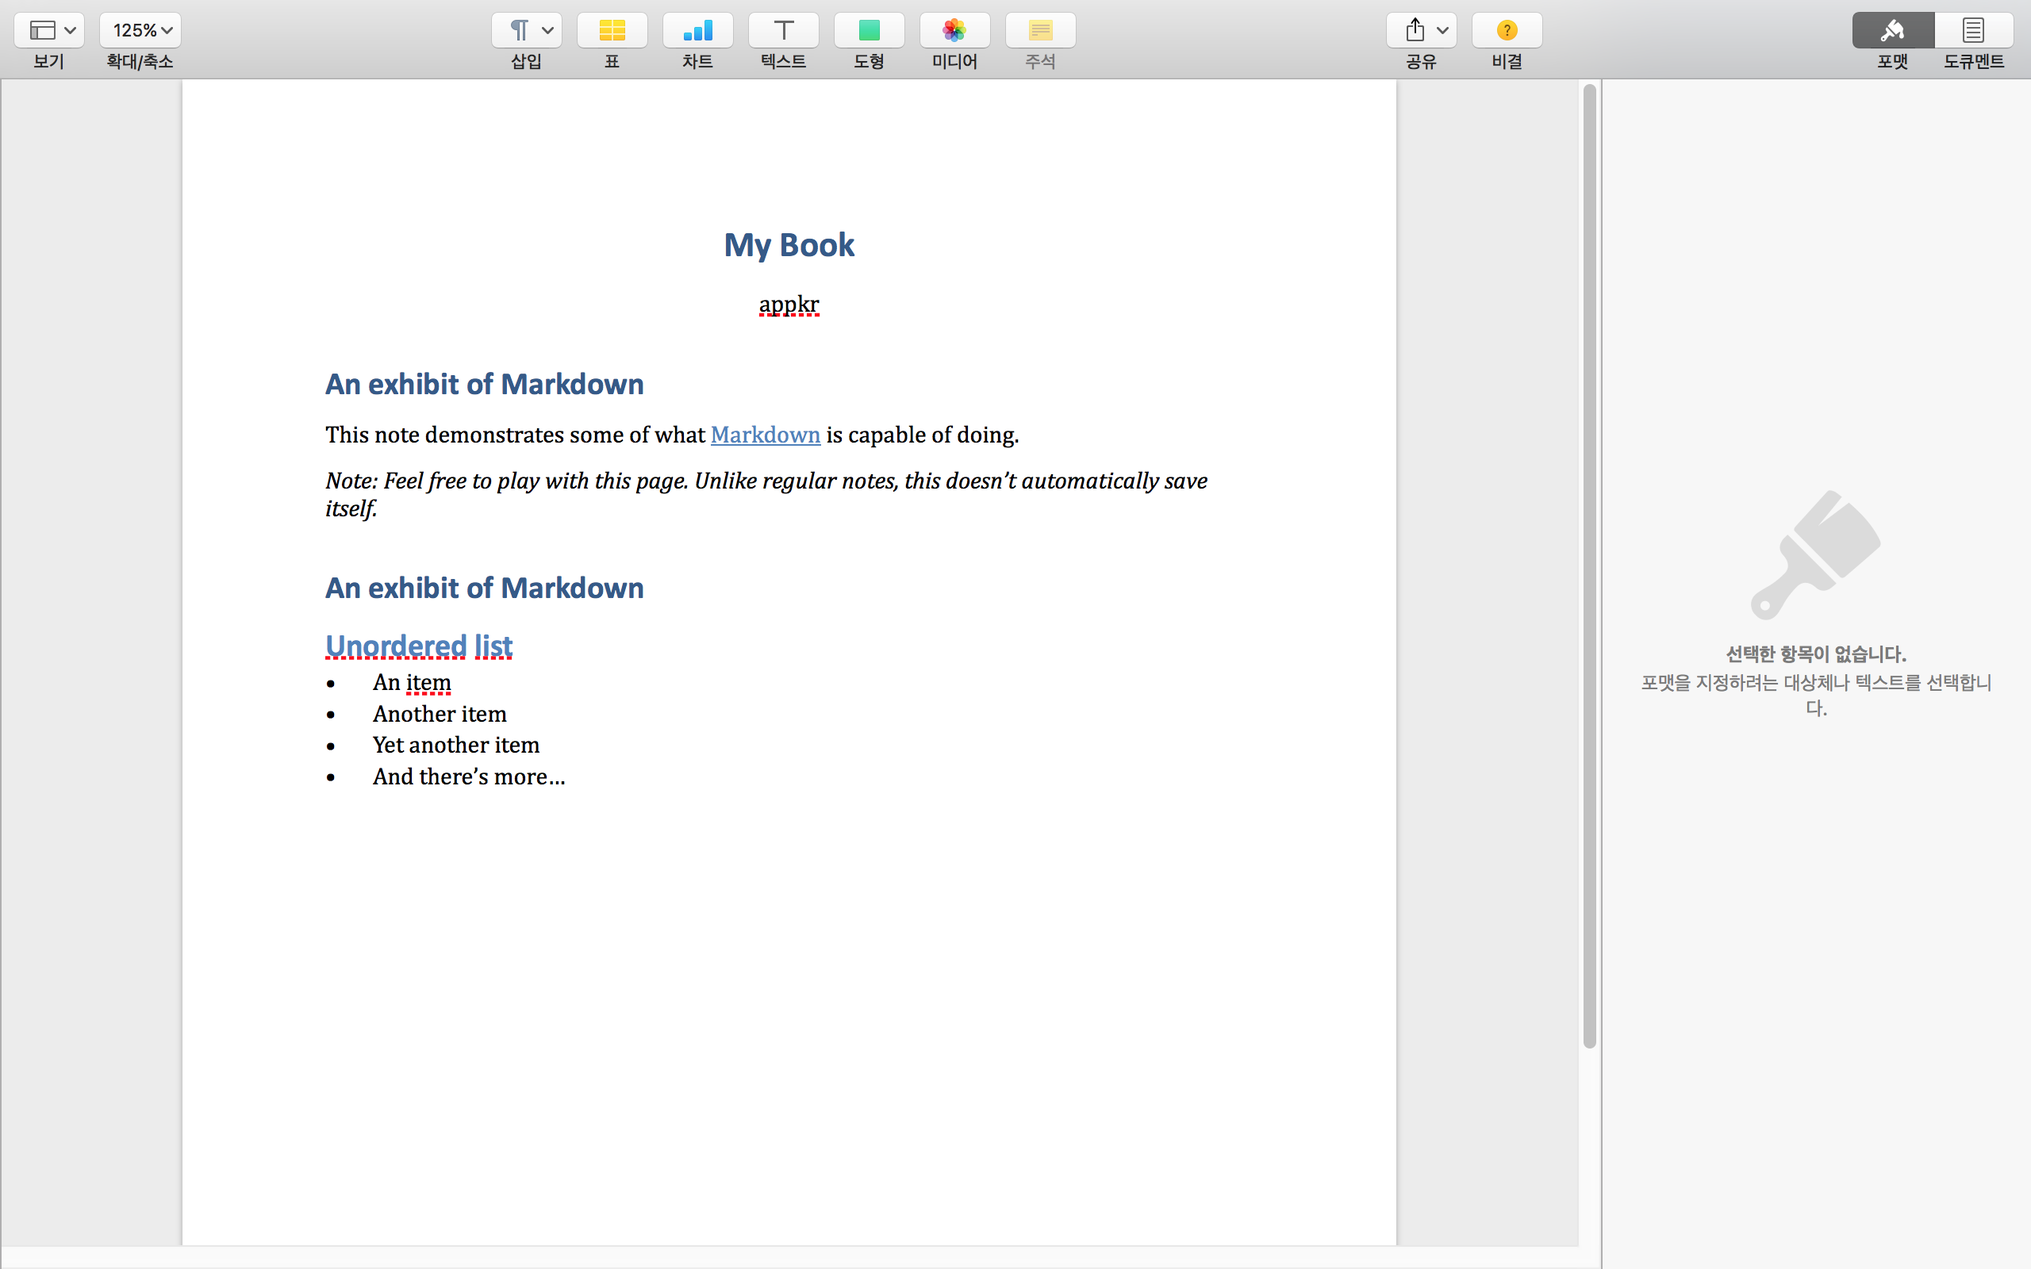
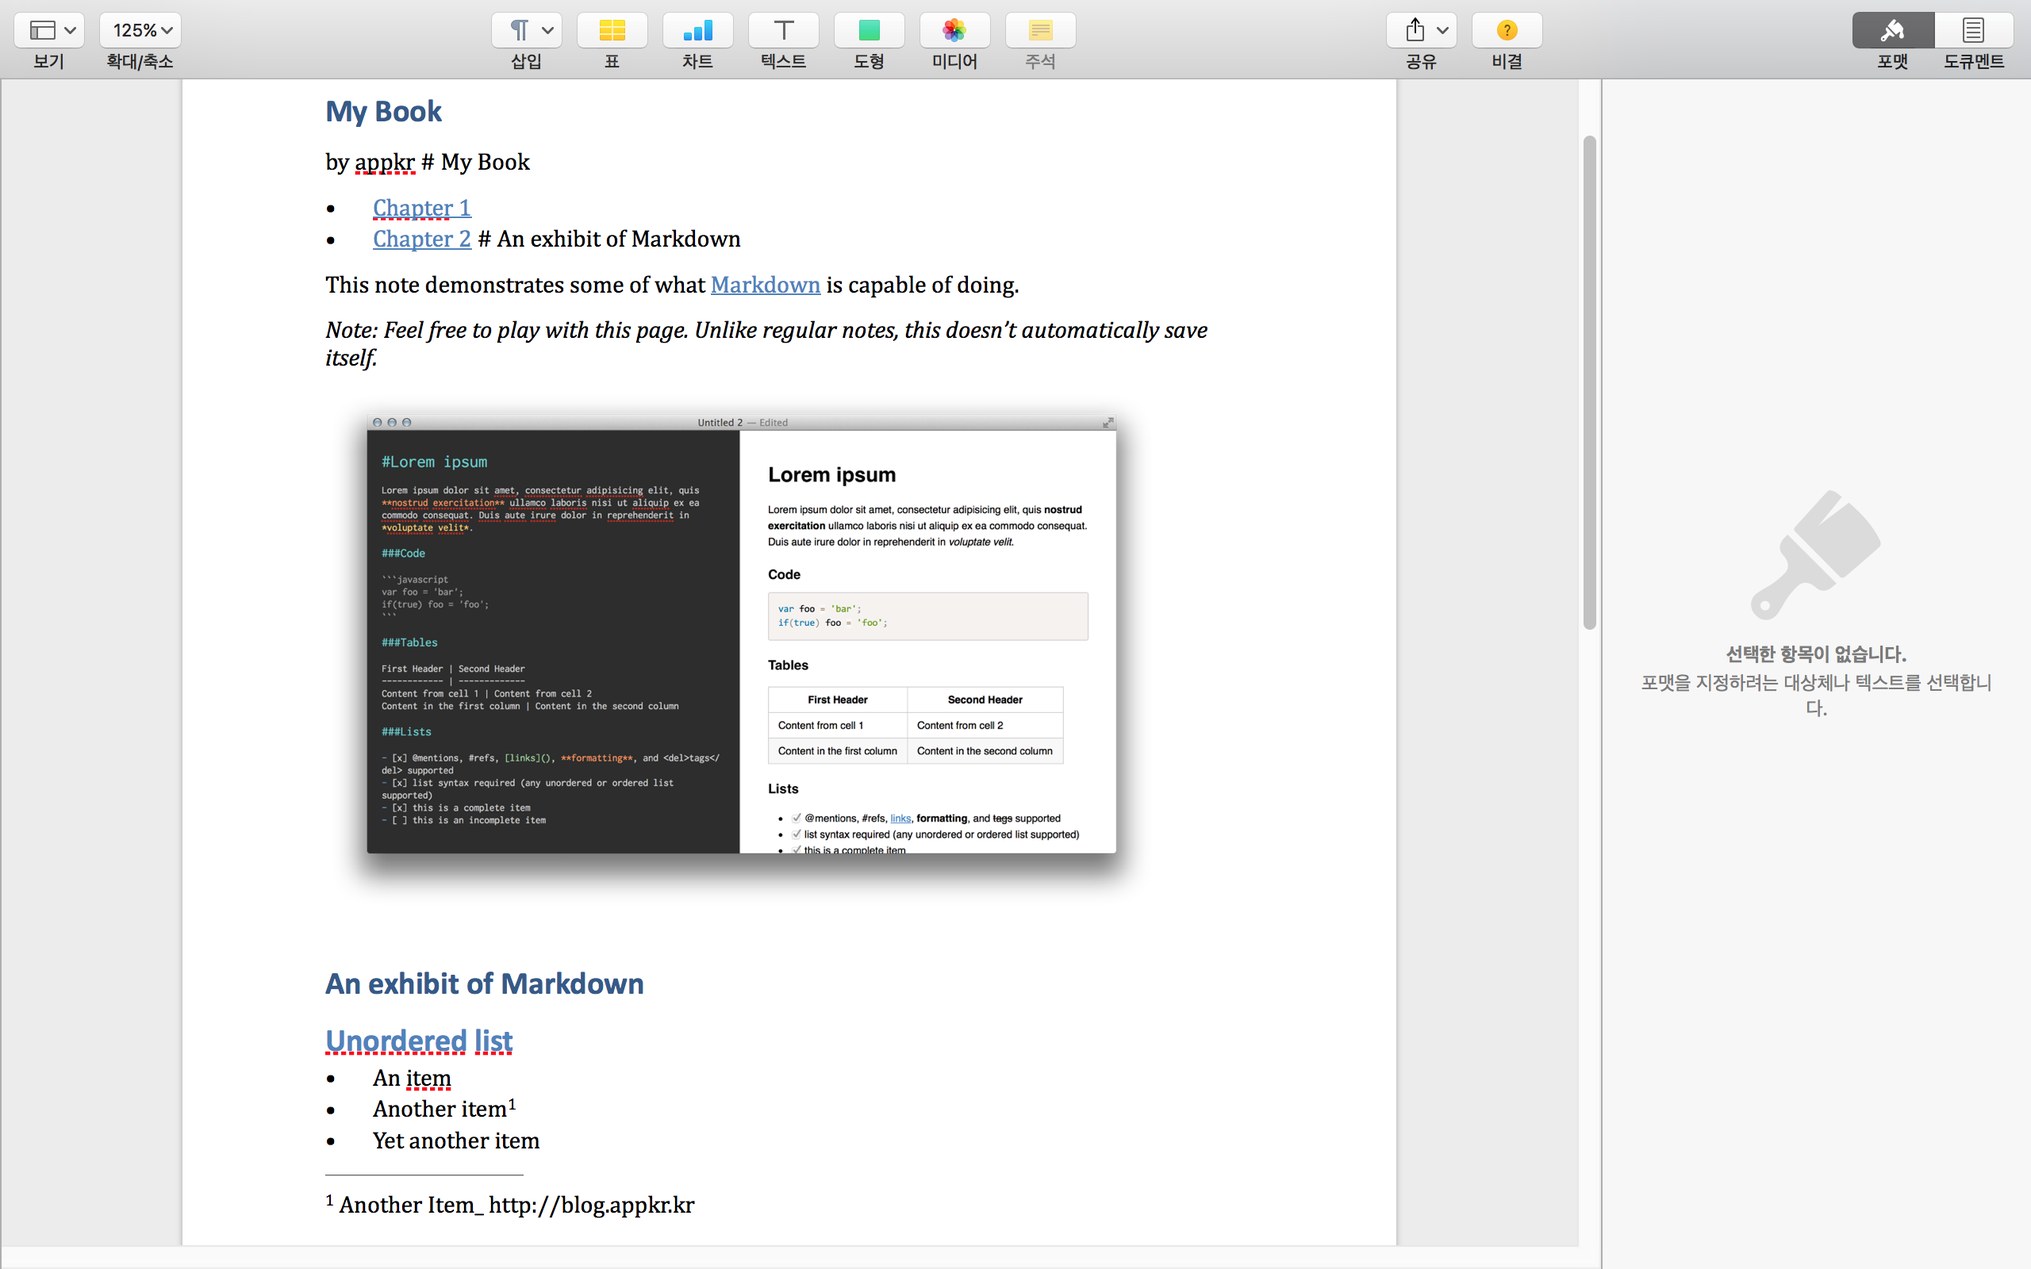
rewrite content and added an example project

diff --git a/_posts/2016-03-03-super-fast-debug-deploy.md b/_posts/2016-03-03-super-fast-debug-deploy.md
@@ -1,0 +1,125 @@
+---
+layout: post
+title: '엄청나게 빠른 버그 감지, 디버그, 코드 배포' 
+date: 2016-03-03 00:00:00 +0900
+categories:
+- work-n-play
+tags:
+- 개발자
+- 라라벨
+- laravel
+---
+
+어제 있었던 일이다. 저녁에 있을 모임에 나가기 위해 하던 일을 슬슬 정리하려던 차였다. 그런데, 슬랙으로 날아온 버그 메시지. 버그를 감지하고 바로 고친후 프로덕션에 배포했는데, 이 모든 과정이 딱 10분 걸렸다. 어떻게 가능했을까?
+
+이 포스트는 
+
+- 라라벨[^1] 프레임워크의 우수성을 알린다.
+- 가난한 개발자가 자신의 서비스를 지키는 방법과 몇가지 개발 도구를 소개한다.
+
+라는 목적을 가진다. (이 블로그의 포스트들의 방문자가 갑자기 많아졌다. 그래서 웃고 운다.)
+
+이 포스트의 대상이 되는 프로젝트는 내가 쓴 [라라벨 5 온라인 강좌](https://github.com/appkr/l5essential)임을 미리 밝힌다. 해당 강좌를 통해 개발한 최종 결과물은 현재 아마존웹서비스(AWS)에서 올려 [라이브데모](http://l5.appkr.kr/)라며 서비스하는데, 이 포스트는 라이브데모의 방문자 중 한분이 겪은 문제에 대한 해결 이력이다. 그런데 불편한을 겪었던 그 분은 나한테 문제점을 알려주지는 않았고 '그냥 안되네~'라며 페이지를 떠나신 것 같다. 내 메일 주소를 찾아 가면서 문제점을 기술(description)하면서 고쳐달라고 말하는 친절을 베풀지는 않았지만, 해당 버그를 만들어 주었으니 나한테는 고마운 분이다.
+
+이 포스트의 내용과는 조금은 다른 관점인데.. 서비스에 문제가 생겼을 때 사용자가 별 노력 없이도 문제점을 개발자에게 알릴 수 있는 사용자인터페이스(UI)나 장치를 만드는 것도, 서비스의 품질을 높일 수 있는 좋은 방법이다. 이런 옵트인(opt-in) 방식의 리포팅은 팝업 형태로 표시되어 사용자의 동의를 받아 전송하는 것이 일반적이다. 
+
+가능한 모든 경우의 수를 따져서 개발자는 프로그래밍하고 테스트를 하려고 하지만, 세상에 '완벽'이란 단어는 없다. 구현이 조금 부족하고 테스트가 덜 됐을 수 있지만, 버그를 리포팅하는 장치를 프로그램에 심어서 배포하고, 리포트된 버그를 분석하고 코드를 고쳐서 빠르게 안정화하며, 초기 사용자의 반응을 관찰하는 것이 더 낫다는 것이 필자의 생각이다. 완벽주의 개발자들로 포진된 스타트업들이 오버 엔지니어링을 하다가 실기(失期)하는 사례를 여러번 봤다.
+
+<!--more-->
+
+<div class="spacer">• • •</div>
+
+## Bug Detection
+
+아래는 어제 오후 5시 16분에 발생한 예외를 라라벨의 전역 예외처리기가 캐치하고, 스택트레이스(stack trace)를 슬랙(Slack)으로 보낸 것이다. `Call to undifined method Lararacasts\Flash\FlashNotifier::error()`. 없는 메서드를 호출했단다. 얼마나 자세(informative)한가?
+
+[![슬랙으로 전달된 스택트레이스](/images/2016-03-03-img-01.png)](/images/2016-03-03-img-01.png)
+
+아래는 라라벨 프로젝트의 전역 예외처리기에 정의된 버그 리포트 부분이다. 프로덕션 환경일 때만, `\App\Reporters\ErrorReport::send()` 를 이용해서 `Exception $e`를 리포팅한다. 
+
+```php
+<?php // app/Exceptions/Handler.php
+
+// ...
+
+class Handler extends ExceptionHandler
+{
+    public function report(Exception $e)
+    {
+        if ($this->shouldReport($e) and app()->environment('production')) {
+            app(\App\Reporters\ErrorReport::class, [$e])->send();
+        }
+
+        return parent::report($e);
+    }
+
+    public function render($request, Exception $e)
+    {
+        // Custom exception rendering logic ...
+
+        return parent::render($request, $e);
+    }
+}
+```
+
+## Debugging
+
+어려운 버그였다면 10분은 거짓말이었을텐데, 다행히 쉬운 버그였다. 코드에디터 열어서 `errors()`에서 `error()`로 오타 수정하는 정도였으니까..
+
+[![errors() 메서드는 없다.](/images/2016-03-03-img-02.png)](/images/2016-03-03-img-02.png)
+
+코드 수정과 테스트가 끝나면 그 다음은 완전 기계적인 프로세스다. 수정된 코드를 버전관리시스템에 반영하고, 깃허브에 올리는 일이다.
+
+```bash
+$ git add .
+$ git commit -m 'fix bug of BadMethodCall @PasswordController'
+$ git push
+```
+
+## Code Deploy
+
+로컬컴퓨터에서 아래 콘솔 명령 한줄이면 배포 끝! 내 프로젝트가 의존하는 패키지를 내려받아 설치하는 것까지 포함해서, 프로덕션 서버에 코드 배포 과정은 길어도 2분 정도다. 
+
+```bash
+$ envoy run release
+```
+
+[![envoy 코드 배포](/images/2016-03-03-img-03.png)](/images/2016-03-03-img-03.png)
+
+여기까지 10분!!! 하는 김에, 그간에 독자분들에 지적한 변경 필요 내용들도 반영했다. 
+
+## Conclusion
+
+### Bug Detection
+
+많은 프로그래머들이 PHP 프로그래밍언어의 단점으로 '예측 가능하지 않다'는 점과 '신뢰성이 떨어진다'는 점을 든다. 실수로 코드를 잘못짰을 때, 그 프로그램이 실행을 멈추고 뭔가 엄청난 에러메시지를 뿜어 내는 것이 보통의 개발자들이 기대하는 바이다. 
+
+예를 들어 `$id = $_GET['id']; if ($id == 0) {...}` 처럼 초기화되지 않을 수도 있는 변수를 비즈니스 로직에서 사용할 수 있는데, PHP 엔진은 `Undefined index:id`라는 경고 메시지를 '조용히' 로그에 기록한 후, 그냥 다음 코드를 실행한다. 이건 앞서 말한 개발자의 기대와 다르다. 이 코드는 개발자의 실수였거나, 나쁜 코딩 습관의 산물이거나, 아니면 괜찮은 코드를 짜는 방법을 몰라서 생긴 결과일 수 있다. 개발자 본인이 테스트할 때 문제가 없어 보일 수 있지만, 다른 사용자가 이용할 때는 완전히 다른 결과를 낼 개연성이 있는 잘못된 코드이다.
+
+이가 없으면 잇몸이라 했던가? PHP 프로그래밍 언어가 가진 문제점을 라라벨 프레임워크 커버해 준다. 어떻게???
+
+라라벨 프레임워크는 이런 경우에 무조건 예외를 던진다. 그리고, (특별한 예외처리 로직을 구현하지 않았더라도) 전역 예외처리기에서 캐치한다. 이 전역 예외처리기는 `render()` 메서드로 사용자에게 안내 메시지를 표시하거나, `report()` 메서드로 로그 기록이나 외부로 메시지를 보내는 등, 캐치한 예외의 타입에 따라 적절한 방식으로 예외를 소비한다. 입문자든 고수든 대부분의 PHP 개발자가 프레임워크를 사용할 때 얻는 이점 중 하나이다. 입문자는 이런 문제를 회피하기 위해서, 고수는 시간을 절약하기 위해서..
+
+잡설이 길었는데 라라벨의 '예측가능성'과 '신뢰성'에 대한 철학, 그리고 그 철학의 구현체는 훌륭하다. 내가 이 프레임워크에 머물러 있는 이유다.
+
+### Debugging
+
+디버깅에서 중요한 것은 첫째, 자신만의 디버깅 프로세스와, 둘째, 좋은 도구이다. 서드파티 콤포넌트의 메서드 이름을 어떻게 기억하겠는가? 다행히 [phpStorm](https://www.jetbrains.com/phpstorm/)[^2]과 같은 도구는 객체나 메서드 이름 위에 커서를 놓고 <kbd>Cmd</kbd> + 클릭으로 메서드로 이동할 수 있다. 해서, 없는 메서드라는 것을 쉽게 확인할 수 있다.
+
+### Code Deploy
+
+엔보이(envoy)[^3]와 깃허브(Github)를 이용해서 코드 배포를 자동화하는 방법은 아래 링크에 있다.
+
+- [엔보이를 이용한 코드 배포 자동화](http://www.slideshare.net/ssuser7887b3/envoy-56730937)
+- [엔보이 예제 스크립트](https://github.com/appkr/envoy)
+- [엔보이-라라벨 5.2 한글 매뉴얼](http://laravel.kr/docs/5.2/envoy)
+
+나는 깃허브라는 서비스를 개발과 프로덕션의 사이를 잇는 허브(hub)로 사용한다. 깃허브에 개발코드를 올리고, 프로덕션에서 `$ git clone`을 하니까 말이다.
+
+---
+
+[^1]: 라라벨_ PHP 프로그래밍언어로 개발된 웹 프레임워크이다.
+
+[^2]: phpStorm_ PHP 프로그래밍을 돕는 통합개발환경(IDE). 이 녀석을 코드편집기라고 부르면, 개발사인 JetBrains에서 육두문자를 날리며 욕할지도 모른다^^. phpStorm은 유료 소프트웨어 인데, 난 운 좋게 (오픈소스기여자에게만 부여되는) 라이센스를 얻어 무료로 사용한다. 이렇게라도 홍보해 드리는 것이 감사를 표시하는 최소한의 방법이라 생각한다.
+
+[^3]: 엔보이_ 라라벨이 제공하는 SSH 작업 실행 도구이다. 프레임워크나 언어에 무관하게 사용할 수 있는 독립적인 애플리케이션이다.

diff --git a/_posts/2016-02-23-pandoc-gitbook-전자출판.md b/_posts/2016-02-23-pandoc-gitbook-전자출판.md
@@ -8,13 +8,13 @@ tags:
 - 개발자
 ---
 
-[Gitbook](https://github.com/GitbookIO/gitbook) 은 이미 알고 있었지만, [Pandoc](http://pandoc.org/) 은 오늘 알게 되었다. 요거 요거 물건이다. Gitbook 과 Pandoc 을 이용해서 전자책을 만드는 방법을 정리해 놓는다.
+Gitbook 은 이미 알고 있었지만, Pandoc 은 오늘 알게 되었다. 요거 요거 물건이다. Gitbook 과 Pandoc 을 이용해서 전자책을 만드는 방법을 정리해 놓는다.
 
--   Gitbook
+-   [Gitbook](https://github.com/GitbookIO/gitbook)
 
     GitBook is a command line tool (and Node.js library) for building beautiful books using GitHub/Git and Markdown
     
--   Pandoc
+-   [Pandoc](http://pandoc.org/)
 
     If you need to convert files from one markup format into another, pandoc is your swiss-army knife.
 
@@ -42,16 +42,25 @@ $ brew install pandoc
 $ pandoc --version # pandoc 1.16.0.2
 ```
 
+<div class="spacer">• • •</div>
+
+필요한 도구가 모두 준비되었으니, 이제 새로운 전자출판 프로젝트를 만들고 책을 집필하자.
+
 ## Create Project
 
+책 본문은 `_draft` 디렉터리에 담는다.
+
 ```bash
-$ mkdir my-book && cd my-book
+# -p 옵션을 주면 만드려는 디렉터리의 부모 디렉터리가 없을 때 만든다.
+$ mkdir -p my-book/_draft && cd my-book
 ```
 
-Markdown 으로 책 본문을 쓰자.
+## Write Contents
+
+Markdown 문법으로 책 본문을 쓰자. 실험 집필에서는 `_draft/chapter1.md`, `_draft/chapter2.md` 2개의 Markdown 파일을 만들었다. 책에 쓰이는 이미지 파일들은 `_draft/images` 에 넣었다.
 
 ```markdown
-<!--chapter1.md-->
+<!--_draft/chapter1.md-->
 
 # An exhibit of Markdown
 
@@ -59,23 +68,27 @@ This note demonstrates some of what [Markdown][1] is capable of doing.
 
 *Note: Feel free to play with this page. Unlike regular notes, this doesn't automatically save itself.*
 
+![](images/markdown_editor.png)
+
 [1]: http://daringfireball.net/projects/markdown/
 ```
 
 ```markdown
-<!--chapter2.md-->
+<!--_draft/chapter2.md-->
 
 # An exhibit of Markdown
 
 ## Unordered list
 
 - An item
-- Another item
+- Another item[^1]
 - Yet another item
 - And there's more...
+
+[^1]: Another Item_ http://blog.appkr.kr 
 ```
 
-`README.md` 와 `SUMMARY.md` 는 Gitbook Mandatory 이므로 꼭 만들어 주어야 한다.
+`README.md` 와 `SUMMARY.md` 2개의 파일은 Gitbook Mandatory 이므로 꼭 만들어 주어야 한다. (프로젝트 루트에 만든다.)
 
 ```markdown
 <!--README.md-->
@@ -85,37 +98,75 @@ This note demonstrates some of what [Markdown][1] is capable of doing.
 by appkr
 ```
 
-## Build Script
+```markdown
+<!--SUMMARY.md-->
 
-`_build` 디렉토리에 빌드 결과물을 저장하였다.
+# Table of Contents
+
+- [Chapter 1](_draft/chapter1.md)
+- [Chapter 2](_draft/chapter2.md)
+```
+
+## Gitbook Serve
+
+속도가 빠르지는 않지만, Gitbook 을 이용하면 집필 중에 Markdown 컴파일 결과를 미리 확인할 수 있다.
 
 ```bash
-# build.sh
-
-#!/usr/bin/env bash
-
-[ ! -d _build ] && mkdir _build
-
-# Build pandoc
-pandoc -S -o _build/my-book.docx \
-  chapter1.md \
-  chapter2.md
-
-# Build gitbook
-gitbook pdf ./ _build/my-book.pdf
-gitbook epub ./ _build/my-book.epub
-gitbook mobi ./ _build/my-book.mobi
-gitbook build
+$ gitbook serve
 ```
 
-## Build
+[![Gitbook 이 생성한 정적 웹 페이지](/images/2016-02-23-img-02.png)](/images/2016-02-23-img-02.png)
+
+<div class="spacer">• • •</div>
+
+이제 시험 집필이 끝났으니, 전자책으로 빌드(출판)한다. 빌드 결과는 `_build` 디렉터리에 저장하는 것으로 하자.
 
 ```bash
-$ bash build.sh
+$ mkdir _build
 ```
 
+## Gitbook Build
+
+Gitbook 으로 `my-book.pdf`, `my-book.epub`, `my-book.mobi` 전자책을 빌드한다. Gitbook 은 `README.md` 및 `SUMMARY.md` 파일을 기준으로 동작한다. 따라서 이 파일들이 위치한 디렉터리에서 아래 명령들을 실행해야 한다.
+
+```bash
+# gitbook {format} {source_path} {output_path}
+
+$ gitbook pdf ./ _build/my-book.pdf
+$ gitbook epub ./ _build/my-book.epub
+$ gitbook mobi ./ _build/my-book.mobi
 ```
+
+`$ gitbook build` 명령을 이용하면 정적 웹페이지를 빌드할 수 있다. 빌드된 웹페이지는 `_book` 디렉터리에 저장되는데, 웹 서버에 올리면 바로 온라인 책이 된다. 프로젝트 루트에 `.bookignore` 파일을 만들고, 정적 웹페이지 빌드에 제외할 파일과 디렉터리를 지정할 수 있다.
+
+## Pandoc Build
+
+Pandoc 으로도 Gitbook 으로 빌드한 형식의 파일들을 빌드할 수 있다. 그런데, 내가 Pandoc 을 이용하는 이유는 MS워드 형식(`.docx`) 때문이다. **Gitbook 과 달리 Pandoc 은 빌드할 Markdown 파일이 위치한 경로를 기준으로 동작한다.** 프로젝트 루트에서 Pandoc 빌드를 실행하면, 마크다운 안에 위치한 상대경로(e.g. 그림 파일)들이 모두 망가지기 때문에 주의해야 한다. 
+
+```bash
+# Change working directory
+$ cd _draft
+
+# pandoc {options} {source_files}
+$ pandoc --smart --output=../_build/my-book.docx \
+          ../README.md \
+          ../SUMMARY.md \
+          chapter1.md \
+          chapter2.md
+```
+
+오오~ 멋지다.
+
+[![Pages 에서 오픈한 my-book.docx](/images/2016-02-23-img-01.png)](/images/2016-02-23-img-01.png)
+
+<div class="spacer">• • •</div>
+
+현재까지 작업한 프로젝트의 디렉터리 구조이다.
+
+```bash
 .
+├── .bookignore
+├── .gitignore
 ├── README.md
 ├── SUMMARY.md
 ├── _book
@@ -124,20 +175,16 @@ $ bash build.sh
 │   ├── my-book.epub
 │   ├── my-book.mobi
 │   └── my-book.pdf
-├── build.sh
-├── chapter1.md
-├── chapter2.md
-└── title.txt
+└── _draft
+    ├── chapter1.md
+    ├── chapter2.md
+    └── images
 ```
-
-[![Pages 에서 오픈한 my-book.docx](/images/2016-02-23-img-01.png)](/images/2016-02-23-img-01.png)
 
 ## Conclusion
 
-Gitbook 은 웹 서버에 바로 올릴 수 있는 Static HTML 페이지를 생성해 준다. 책 전체 색인, 좌우 스크롤/화살표 네비게이션 뿐 아니라, 검색, 배경색 변경, 글꼴 크기, SNS 공유 등의 부가 기능도 제공하는 꽤 쓸만한 웹 페이지 이다.
+Gitbook 은 웹 서버에 바로 올릴 수 있는 정적 HTML 페이지를 생성해 준다. 책 전체 색인, 좌우 스크롤/화살표 네비게이션 뿐 아니라, 검색, 배경색 변경, 글꼴 크기, SNS 공유 등의 부가 기능도 제공하는 꽤 쓸만한 웹 페이지 이다. 그리고, Gitbook 으로 빌드한 전자책의 짜임새가 Pandoc 보다 조금 더 낫다.
 
-Pandoc 은 MS Word 형식으로 변환해 준다. 출판 업계가 교정 및 편집을 위해 MS Word 를 표준으로 사용하고 있다는 점 때문에, Pandoc 의 가치는 더 빛난다. 공식 문서를 방문해 보고 변환이 안되는 문서가 거의 없다는 점에 놀랐다.
+Pandoc 은 Markdown 으로 집필한 책을 MS워드 형식으로 변환해 준다. (Pandoc 은 훨씬 더 많은 일을 할 수 있지만, 나는 이 목적으로만 쓴다.) 출판 업계가 교정 및 편집을 위해 MS워드를 표준으로 사용하고 있다는 점 때문에, Pandoc 의 가치는 더 빛난다. 
 
-어쨌든 3시간 남짓의 실험으로 Markdown 형식으로 쓴 책을 `.epub`, `.mobi`, `.pdf`, `.docx` 뿐 아니라, 웹으로도 출판할 수 있는 도구를 얻었다.
-
-[![Gitbook 이 생성한 Static 웹 페이지](/images/2016-02-23-img-02.png)](/images/2016-02-23-img-02.png)
+어쨌든 3시간 남짓의 실험으로 Markdown 형식으로 쓴 책을 `.epub`, `.mobi`, `.pdf`, `.docx` 뿐 아니라, 웹으로도 출판할 수 있는 도구를 얻었다. 예제 프로젝트는 이 [Github Repo](https://github.com/appkr/book-writing-kit) 에서 받을 수 있다.

diff --git a/_posts/2010-02-13-gtd-getting-things-done.md b/_posts/2010-02-13-gtd-getting-things-done.md
@@ -43,6 +43,8 @@ tags:
 - [Wikipedia](https://en.wikipedia.org/wiki/Getting_Things_Done)
 - [oojoo](http://oojoo.tistory.com/)님의 MS Technet 세미나
 
+<div class="spacer">• • •</div>
+
 [^1]: Stuff = 만남 약속, 읽어야 되는 메모, e-mail, 음성 메시지, 이런저런 청구서...
 
 [^2]: Project = 목표 + 목표를 달성하는데 필요한 2가지 이상의 행동들
